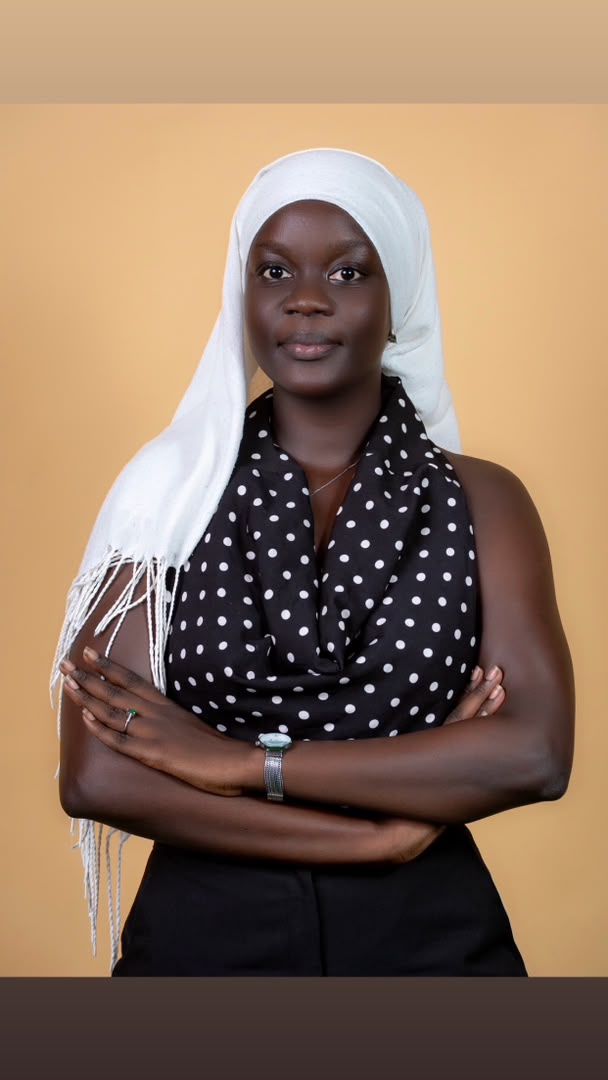
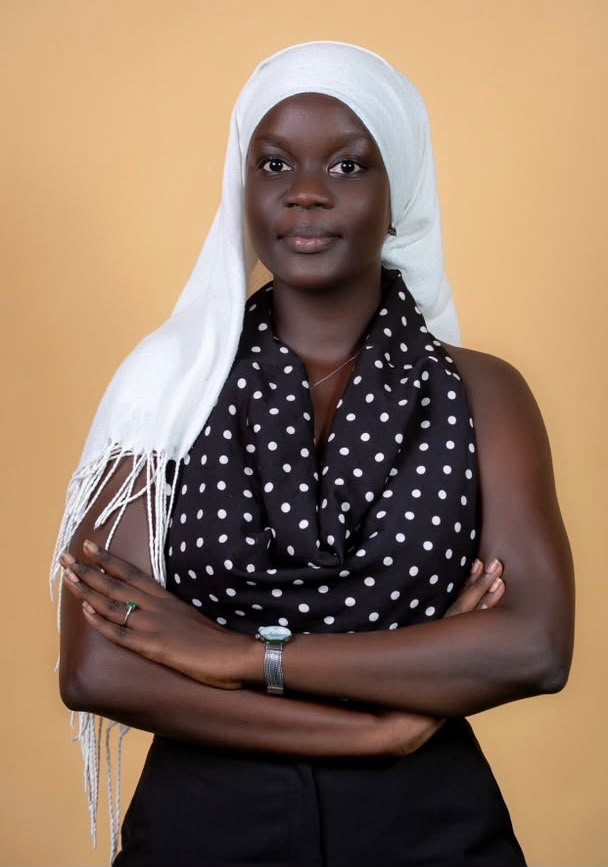
Refond la section équipe en cartes dépliantes
Les cinq membres fondateurs remplacent les données de démonstration, avec
leurs portraits, intitulés et liens LinkedIn.

La carte active se déplie : en desktop un panneau glisse à côté de la
photo, qui garde ainsi son format ; en mobile il se déplie sous la photo
plutôt que de la recouvrir. Le fond de chaque carte reprend la teinte
échantillonnée en haut du portrait, pour un raccord invisible.

diff --git a/src/components/site/team.tsx b/src/components/site/team.tsx
@@ -1,12 +1,149 @@
 "use client";
 
+import { useState } from "react";
 import Image from "next/image";
-import { motion } from "framer-motion";
+import { AnimatePresence, motion } from "framer-motion";
 import { ArrowUpRight } from "lucide-react";
-import { team } from "@/lib/content";
+import { team, type TeamMember } from "@/lib/content";
 import { Reveal, easeOutExpo } from "@/components/motion/reveal";
+import { LinkedinIcon } from "@/components/site/decor";
+
+/** Contenu du panneau déplié, partagé par les deux mises en page. */
+function MemberDetails({ member }: { member: TeamMember }) {
+  return (
+    <>
+      <p className="text-sm font-medium italic text-brand">{member.title}</p>
+      <p className="mt-3 text-sm leading-relaxed text-white/80">{member.bio}</p>
+      <a
+        href={member.linkedin}
+        target="_blank"
+        rel="noopener noreferrer"
+        onClick={(event) => event.stopPropagation()}
+        className="mt-5 inline-flex items-center gap-2 rounded-full bg-brand px-4 py-2 text-sm font-medium text-brand-foreground transition-transform hover:scale-[1.04]"
+      >
+        <LinkedinIcon className="h-4 w-4" />
+        LinkedIn
+        <ArrowUpRight className="h-3.5 w-3.5" />
+      </a>
+    </>
+  );
+}
+
+function MemberCard({
+  member,
+  isActive,
+  onActivate,
+}: {
+  member: TeamMember;
+  isActive: boolean;
+  onActivate: () => void;
+}) {
+  return (
+    <motion.article
+      /*
+       * `flexGrow` ne joue qu'en rangée (lg et plus) : en colonne, le
+       * conteneur n'a pas de hauteur fixe, donc aucun espace libre à
+       * répartir. La même animation sert les deux mises en page.
+       */
+      animate={{ flexGrow: isActive ? 3 : 1 }}
+      transition={{ duration: 0.6, ease: easeOutExpo }}
+      onMouseEnter={onActivate}
+      onFocus={onActivate}
+      onClick={onActivate}
+      tabIndex={0}
+      aria-expanded={isActive}
+      style={{ backgroundColor: member.tone }}
+      className="group relative flex cursor-pointer flex-col overflow-hidden rounded-3xl outline-none ring-offset-2 ring-offset-background focus-visible:ring-2 focus-visible:ring-brand lg:h-auto lg:basis-0"
+    >
+      {/* Bandeau de titre : la photo commence dessous, jamais derrière */}
+      <div className="relative z-10 h-[112px] shrink-0 px-5 pt-5">
+        <h3 className="font-heading text-lg font-bold leading-tight text-ink">
+          {member.name}
+        </h3>
+        <p className="mt-1 text-[13px] font-medium text-ink/70">
+          {member.role}
+        </p>
+      </div>
+
+      <div className="relative flex h-[340px] min-h-0 lg:h-auto lg:flex-1">
+        <div className="relative min-w-0 flex-1">
+          <Image
+            src={member.photo}
+            alt={member.name}
+            fill
+            sizes="(max-width: 1024px) 100vw, 30vw"
+            className="object-cover object-top transition-transform duration-700 group-hover:scale-[1.04]"
+          />
+
+          {/* Raccourci LinkedIn sur les cartes repliées */}
+          {!isActive && (
+            <a
+              href={member.linkedin}
+              target="_blank"
+              rel="noopener noreferrer"
+              aria-label={`LinkedIn de ${member.name}`}
+              onClick={(event) => event.stopPropagation()}
+              className="absolute bottom-4 right-4 grid h-10 w-10 place-items-center rounded-xl bg-ink/80 text-white backdrop-blur transition-colors hover:bg-brand hover:text-brand-foreground"
+            >
+              <LinkedinIcon className="h-4 w-4" />
+            </a>
+          )}
+
+        </div>
+
+        {/*
+          Desktop : le panneau se déplie à côté de la photo. En absorbant
+          toute la largeur gagnée, il évite que la photo change de format
+          et se recadre brutalement à chaque ouverture.
+        */}
+        <motion.div
+          animate={{ width: isActive ? 300 : 0 }}
+          transition={{ duration: 0.6, ease: easeOutExpo }}
+          className="hidden shrink-0 overflow-hidden bg-ink/90 lg:block"
+        >
+          <div className="w-[300px] p-6">
+            <AnimatePresence>
+              {isActive && (
+                <motion.div
+                  initial={{ opacity: 0, x: 16 }}
+                  animate={{ opacity: 1, x: 0 }}
+                  exit={{ opacity: 0, x: 16 }}
+                  transition={{ duration: 0.4, ease: easeOutExpo, delay: 0.15 }}
+                >
+                  <MemberDetails member={member} />
+                </motion.div>
+              )}
+            </AnimatePresence>
+          </div>
+        </motion.div>
+      </div>
+
+      {/*
+        Mobile : le panneau se déplie sous la photo au lieu de la recouvrir.
+        Un texte long masquerait sinon complètement le visage.
+      */}
+      <AnimatePresence initial={false}>
+        {isActive && (
+          <motion.div
+            initial={{ height: 0, opacity: 0 }}
+            animate={{ height: "auto", opacity: 1 }}
+            exit={{ height: 0, opacity: 0 }}
+            transition={{ duration: 0.45, ease: easeOutExpo }}
+            className="overflow-hidden bg-ink/92 lg:hidden"
+          >
+            <div className="p-5">
+              <MemberDetails member={member} />
+            </div>
+          </motion.div>
+        )}
+      </AnimatePresence>
+    </motion.article>
+  );
+}
 
 export function Team() {
+  const [active, setActive] = useState(0);
+
   return (
     <section id="equipe" className="scroll-mt-32 px-4 pb-28 sm:px-6 lg:px-10">
       <div className="relative mx-auto max-w-7xl overflow-hidden rounded-[2rem] bg-[#0d0d0d] px-6 py-16 ring-1 ring-white/10 sm:rounded-[2.5rem] sm:px-12 sm:py-20">
@@ -34,44 +171,18 @@ export function Team() {
           </Reveal>
         </div>
 
-        <div className="relative mt-10 grid gap-4 sm:grid-cols-2 lg:grid-cols-3">
-          {team.members.map((member, index) => (
-            <motion.article
-              key={member.name}
-              initial={{ opacity: 0, y: 24 }}
-              whileInView={{ opacity: 1, y: 0 }}
-              viewport={{ once: true, amount: 0.3 }}
-              transition={{
-                duration: 0.6,
-                ease: easeOutExpo,
-                delay: (index % 3) * 0.08,
-              }}
-              whileHover={{ y: -6 }}
-              className="rounded-3xl bg-white p-6 text-ink"
-            >
-              <div className="flex items-center gap-3">
-                <div className="relative h-14 w-14 shrink-0 overflow-hidden rounded-full ring-2 ring-brand">
-                  <Image
-                    src={member.image}
-                    alt={member.name}
-                    fill
-                    sizes="56px"
-                    className="object-cover"
-                  />
-                </div>
-                <div>
-                  <p className="font-heading text-base font-semibold">
-                    {member.name}
-                  </p>
-                  <p className="text-sm text-neutral-500">{member.role}</p>
-                </div>
-              </div>
-              <p className="mt-5 text-sm leading-relaxed text-neutral-600">
-                {member.bio}
-              </p>
-            </motion.article>
-          ))}
-        </div>
+        <Reveal delay={0.15}>
+          <div className="relative mt-10 flex flex-col gap-4 lg:h-[560px] lg:flex-row">
+            {team.members.map((member, index) => (
+              <MemberCard
+                key={member.slug}
+                member={member}
+                isActive={active === index}
+                onActivate={() => setActive(index)}
+              />
+            ))}
+          </div>
+        </Reveal>
       </div>
     </section>
   );

diff --git a/src/lib/content.ts b/src/lib/content.ts
@@ -1,6 +1,11 @@
 import type { StaticImageData } from "next/image";
 import logoSendon from "@/assets/img/project/logo-sendon.jpg";
 import logoDaraJFood from "@/assets/img/project/logo-dara-j-food.jpg";
+import photoCmc from "@/assets/img/teams/cmc.png";
+import photoOusmane from "@/assets/img/teams/ousmane.jpeg";
+import photoDiagne from "@/assets/img/teams/diagne.jpeg";
+import photoYaye from "@/assets/img/teams/yaye.jpeg";
+import photoDaouda from "@/assets/img/teams/daouda.jpeg";
 
 /**
  * Contenu éditorial du site. Tout le texte vit ici pour qu'une relecture
@@ -92,54 +97,78 @@ export const servicesIntro = {
 
 export const marqueeWords = ["Innover", "Inspirer", "Créer"] as const;
 
+/**
+ * Équipe fondatrice. L'ordre du tableau est l'ordre d'affichage des cartes.
+ * Ajouter un membre = ajouter une entrée avec son portrait importé ci-dessus.
+ */
+export type TeamMember = {
+  slug: string;
+  name: string;
+  role: string;
+  title: string;
+  bio: string;
+  linkedin: string;
+  photo: StaticImageData;
+  /** Couleur du haut du portrait, pour un raccord invisible avec la carte. */
+  tone: string;
+};
+
 export const team = {
   title: ["Rencontrez", "l'équipe"],
   pill: "REJOIGNEZ-NOUS",
   members: [
     {
-      name: "Awa Diallo",
-      role: "Directrice générale & fondatrice",
-      bio: "12 ans d'expérience en marketing digital, expertise SEO, SEA et stratégie de contenu.",
-      image:
-        "https://images.unsplash.com/photo-1573496359142-b8d87734a5a2?auto=format&fit=crop&w=400&q=80",
+      slug: "cheikh-mbacke-coly",
+      name: "Cheikh Mbacké Coly",
+      role: "CEO & Co-Founder",
+      title: "Ingénieur Logiciel",
+      bio: "Ingénieur logiciel orienté produit et expérience utilisateur, il pilote le développement des solutions web et mobiles de Jamora Technologie. Il transforme les idées en produits concrets, intuitifs et accessibles, avec une attention particulière portée à l'expérience utilisateur.",
+      linkedin: "https://www.linkedin.com/in/cheikh-mbacke-coly-26047127b/",
+      photo: photoCmc,
+      tone: "#e1ba83",
     },
     {
-      name: "Moussa Ndiaye",
-      role: "Directeur des opérations",
-      bio: "10 ans en gestion de produit et pilotage d'équipe. Solides compétences en organisation et communication.",
-      image:
-        "https://images.unsplash.com/photo-1500648767791-00dcc994a43e?auto=format&fit=crop&w=400&q=80",
+      slug: "ousmane-ndieguene",
+      name: "Ousmane Ndiéguène",
+      role: "CPO & Co-Founder",
+      title: "Ingénieur IA & SmartTech",
+      bio: "Ingénieur spécialisé en intelligence artificielle et technologies intelligentes, il pilote la vision produit et contribue à la conception de l'architecture IA de SenDon. Il veille à transformer les besoins métiers en solutions innovantes, pertinentes et évolutives.",
+      linkedin: "https://www.linkedin.com/in/mirfou111",
+      photo: photoOusmane,
+      tone: "#d7b07b",
     },
     {
-      name: "Michel Brown",
-      role: "Spécialiste SEO senior",
-      bio: "8 ans d'expérience en SEO et création de contenu. Maîtrise de la recherche de mots-clés et de l'optimisation on-page.",
-      image:
-        "https://images.unsplash.com/photo-1519085360753-af0119f7cbe7?auto=format&fit=crop&w=400&q=80",
+      slug: "mouhamet-diagne",
+      name: "Mouhamet Diagne",
+      role: "CTO & Co-Founder",
+      title: "Ingénieur Logiciel",
+      bio: "Ingénieur logiciel, il définit et supervise l'architecture technique ainsi que l'infrastructure des solutions de Jamora Technologie. Il garantit la robustesse, la scalabilité et la fiabilité des systèmes développés.",
+      linkedin: "https://www.linkedin.com/in/mouhamet-diagne-394957320/",
+      photo: photoDiagne,
+      tone: "#e0b982",
     },
     {
-      name: "Emily Johnson",
-      role: "Responsable PPC",
-      bio: "6 ans d'expérience en publicité payante. Experte en campagnes, gestion de budget et analyse de performance.",
-      image:
-        "https://images.unsplash.com/photo-1580489944761-15a19d654956?auto=format&fit=crop&w=400&q=80",
+      slug: "yaye-fatimatou-tall",
+      name: "Yaye Fatimatou Tall",
+      role: "CXO & Co-Founder",
+      title: "Medical & Digital Strategy Manager",
+      bio: "Spécialisée en médecine, stratégie digitale et communication, elle pilote l'expérience utilisateur (UX) et veille à la cohérence des orientations médicales des solutions. Elle contribue également à la définition des stratégies digitales et de communication de Jamora Technologie et de ses différents projets.",
+      linkedin: "https://www.linkedin.com/in/yaye-fatimatou-tall-b51bab2b4",
+      photo: photoYaye,
+      tone: "#e3b888",
     },
     {
-      name: "Bineta Sow",
-      role: "Spécialiste réseaux sociaux",
-      bio: "5 ans en social media marketing. Maîtrise de la création de contenu, du calendrier éditorial et de l'engagement.",
-      image:
-        "https://images.unsplash.com/photo-1573497019940-1c28c88b4f3e?auto=format&fit=crop&w=400&q=80",
+      slug: "daouda-dieng",
+      name: "Daouda Dieng",
+      role: "CDO & Co-Founder",
+      title: "Ingénieur en Sciences des Données",
+      bio: "Ingénieur en sciences des données, il conçoit et exploite les solutions de valorisation des données de Jamora Technologie. Il contribue à transformer les données en informations utiles pour soutenir la prise de décision, l'intelligence produit et l'innovation.",
+      linkedin: "https://www.linkedin.com/in/daouda-dieng-14106b285",
+      photo: photoDaouda,
+      tone: "#dfb881",
     },
-    {
-      name: "Sarah Kim",
-      role: "Rédactrice de contenu",
-      bio: "4 ans en rédaction web et copywriting. Optimise le contenu pour tous les secteurs d'activité.",
-      image:
-        "https://images.unsplash.com/photo-1544005313-94ddf0286df2?auto=format&fit=crop&w=400&q=80",
-    },
-  ],
-} as const;
+  ] satisfies TeamMember[],
+};
 
 export const testimonials = [
   {
